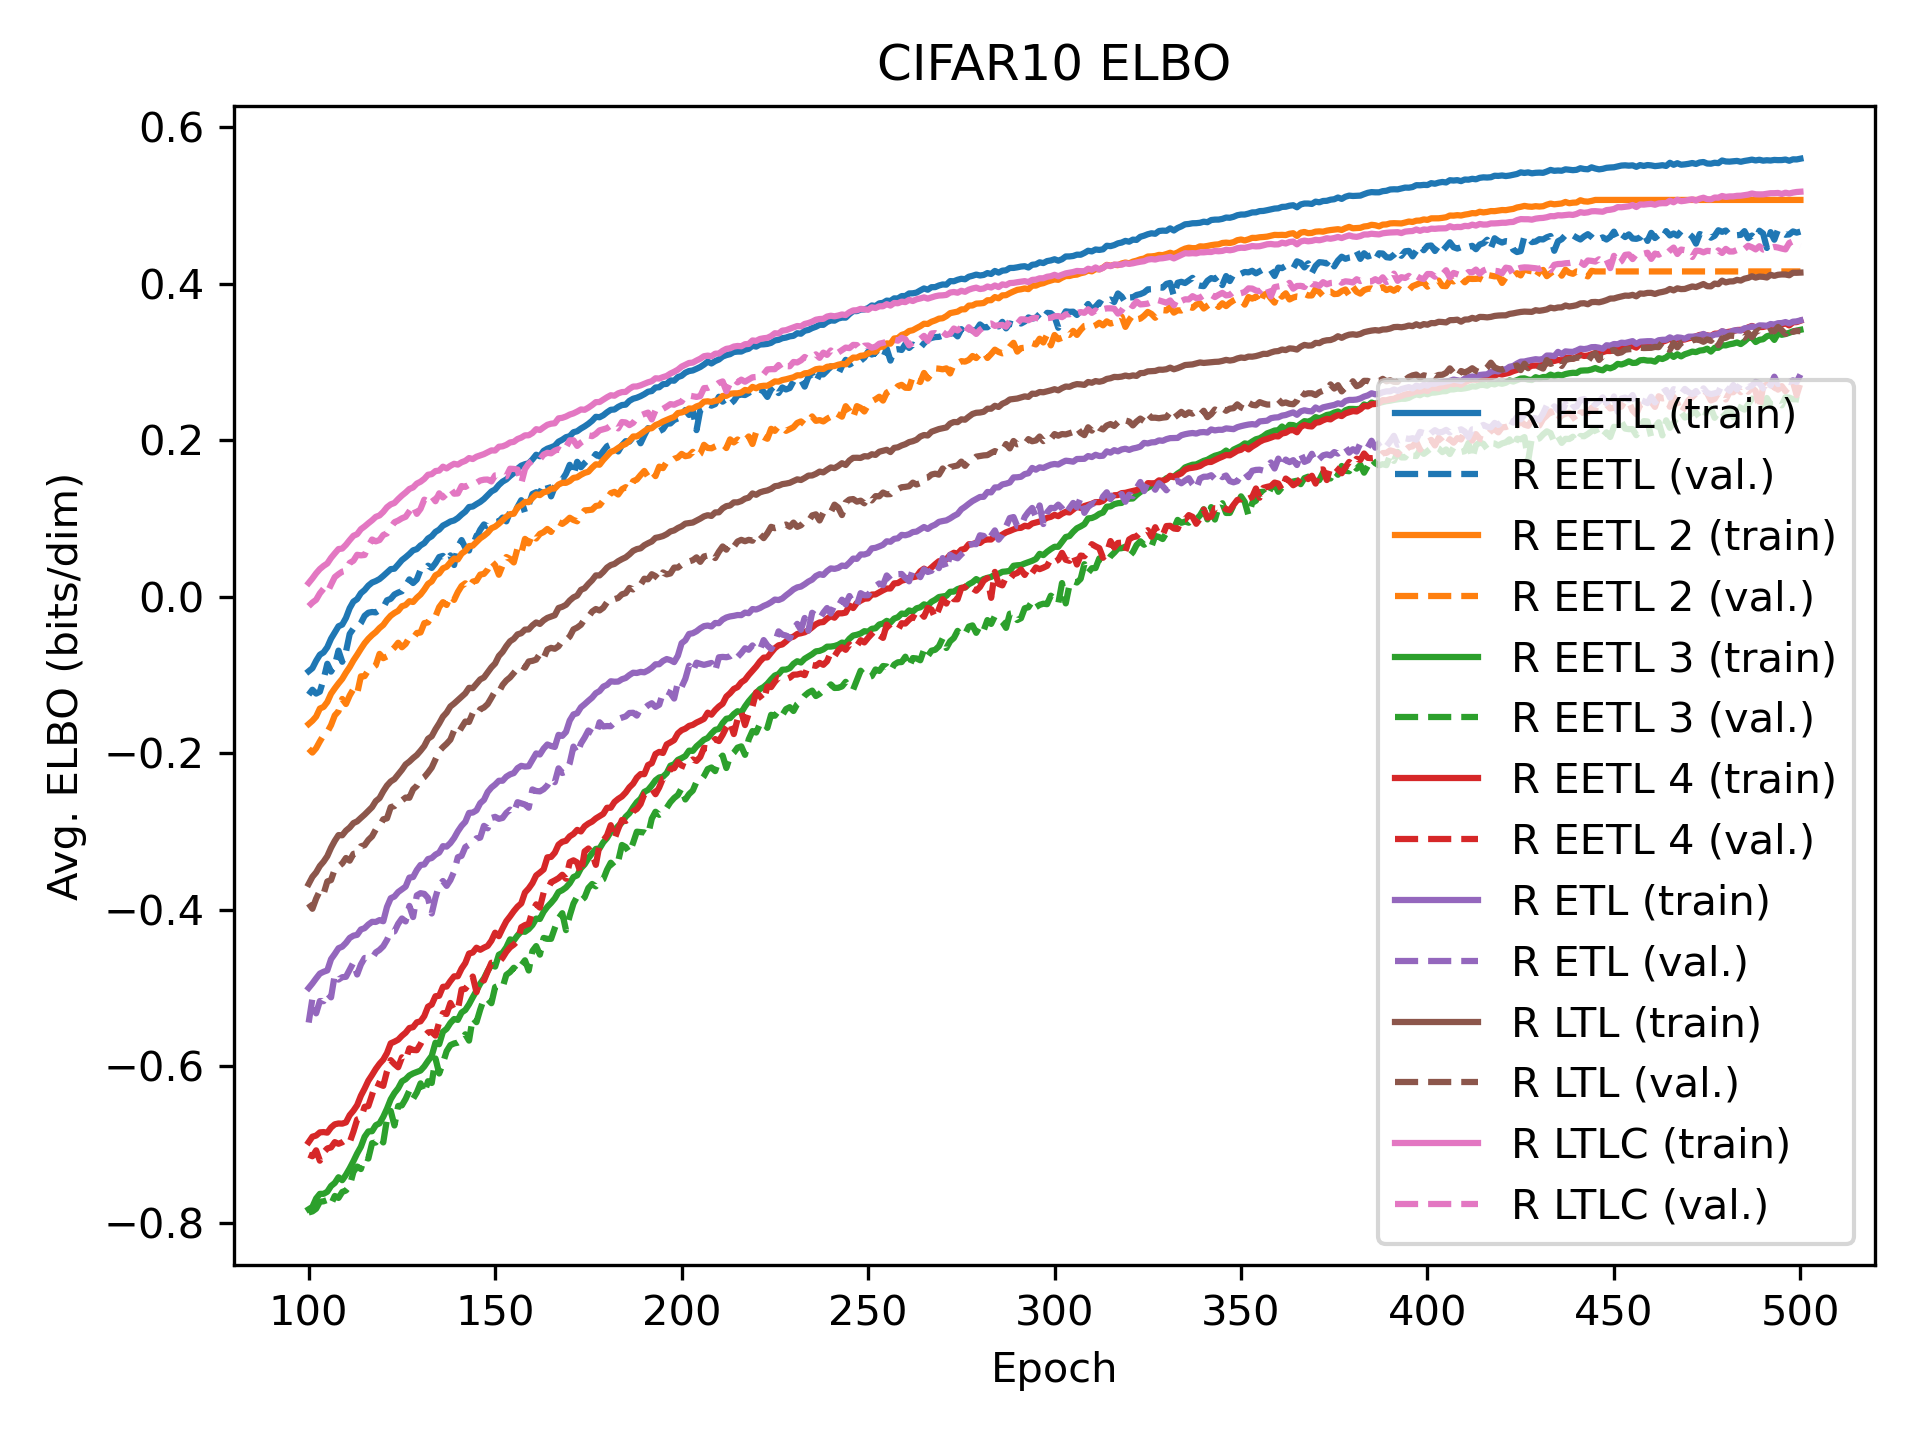
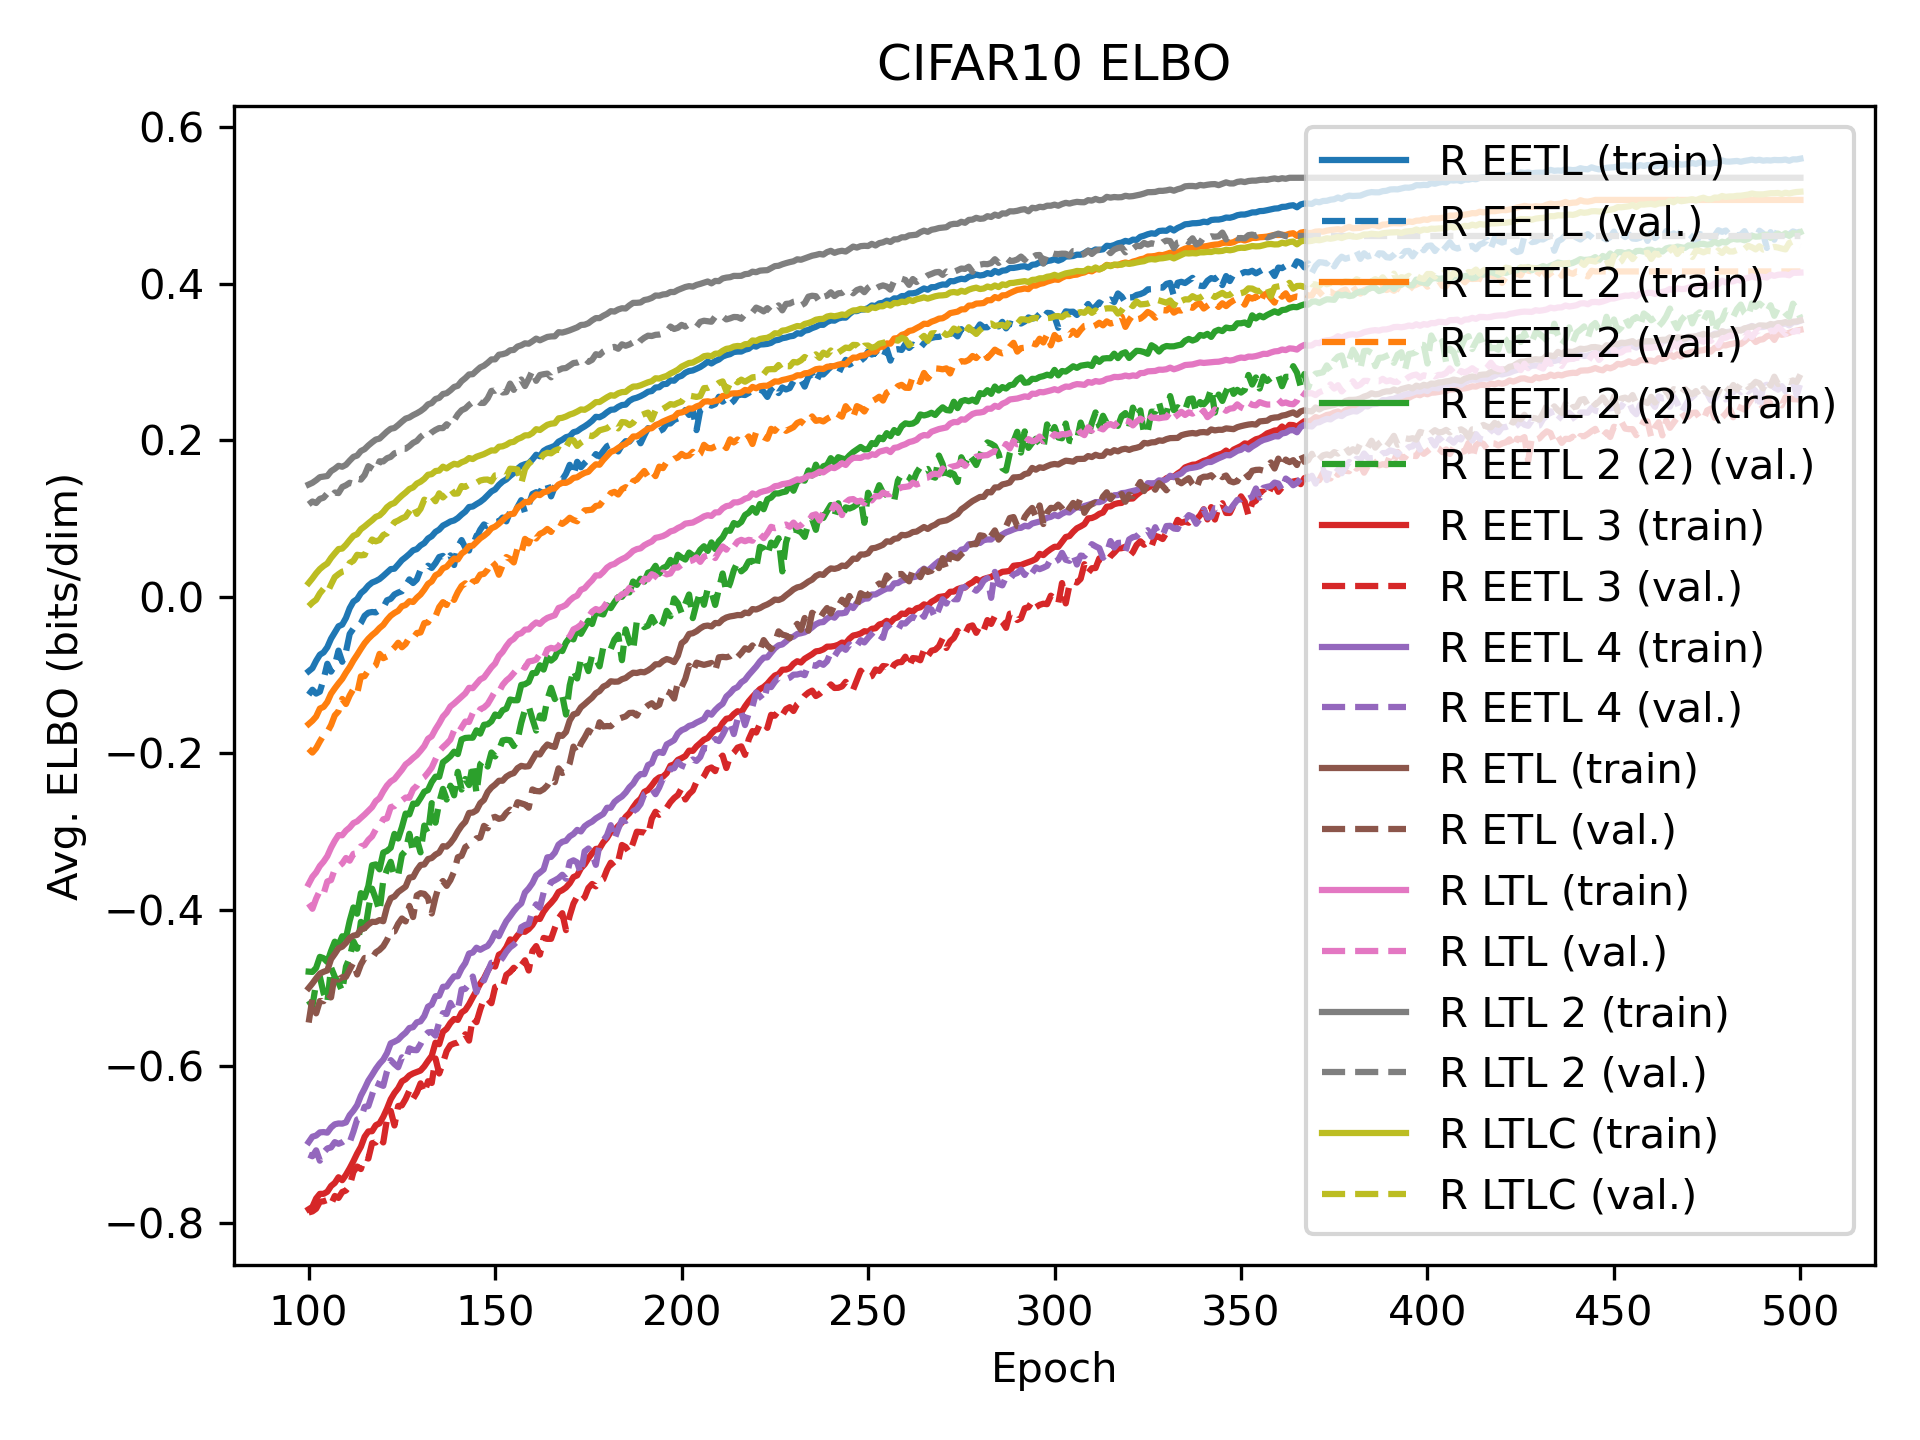
Created updated report with new experiments

Changed region(s): [[0.1562, 0.0938, 0.9688, 0.875], [0.1562, 0.375, 0.1875, 0.4062]]

diff --git a/Experiments/RNN_4/Report.py b/Experiments/RNN_4/Report.py
@@ -1,6 +1,6 @@
-from Architectures.Basic import Canvas, Encoder, EncoderEncoderToEncoder, EncoderToLatents, EncoderEncoderToLatents,\
-    EncoderEncoderToLatents2, EncoderEncoderToLatents3, EncoderEncoderToLatents4, LatentsToLatents, \
-    LatentsToLatentsComplicated, LatentsToDecoder, Decoder
+from Architectures.Basic import Canvas, Encoder, EncoderEncoderToEncoder, EncoderToLatents, EncoderToLatents2,\
+    EncoderEncoderToLatents, EncoderEncoderToLatents2, EncoderEncoderToLatents3, EncoderEncoderToLatents4,\
+    LatentsToLatents, LatentsToLatents2, LatentsToLatentsComplicated, LatentsToDecoder, Decoder
 from Datasets import CIFAR10
 from Methods.RNN import RNN
 from Experiments import Experiments
@@ -75,6 +75,32 @@ CIFAR10_64_4_R_EETL2 = RNN(
     hidden_size=HIDDEN_SIZE,
     clip=CLIP)
 
+ARCHITECTURE_64_4_R_EETL2_2 = {
+    "Canvas": Canvas,
+    "Encoder": Encoder,
+    "EncoderEncoderToLatents": EncoderEncoderToLatents2,
+    "LatentsToDecoder": LatentsToDecoder,
+    "Decoder": Decoder
+}
+
+CIFAR10_64_4_R_EETL2_2 = RNN(
+    architecture=ARCHITECTURE_64_4_R_EETL2_2,
+    num_latents=NUM_LATENTS,
+    num_latents_group=NUM_LATENTS_GROUP,
+    reconstruction=True,
+    encoders=True,
+    to_latents="EncoderEncoder",
+    encoder_to_latents=True,
+    backprop=True,
+    resample=True,
+    type=TYPE,
+    size=SIZE,
+    channels=CHANNELS,
+    log_prob_fn=LOG_PROB_FN,
+    std=STD,
+    hidden_size=HIDDEN_SIZE,
+    clip=CLIP)
+
 ARCHITECTURE_64_4_R_EETL3 = {
     "Canvas": Canvas,
     "Encoder": Encoder,
@@ -101,7 +127,7 @@ CIFAR10_64_4_R_EETL3 = RNN(
     hidden_size=HIDDEN_SIZE,
     clip=CLIP)
 
-ARCHITECTURE_64_4_R_EETL4 = {
+ARCHITECTURE_CIFAR10_64_4_R_EETL4 = {
     "Canvas": Canvas,
     "Encoder": Encoder,
     "EncoderEncoderToLatents": EncoderEncoderToLatents4,
@@ -110,7 +136,7 @@ ARCHITECTURE_64_4_R_EETL4 = {
 }
 
 CIFAR10_64_4_R_EETL4 = RNN(
-    architecture=ARCHITECTURE_64_4_R_EETL4,
+    architecture=ARCHITECTURE_CIFAR10_64_4_R_EETL4,
     num_latents=NUM_LATENTS,
     num_latents_group=NUM_LATENTS_GROUP,
     reconstruction=True,
@@ -181,6 +207,33 @@ CIFAR10_64_4_R_LTL = RNN(
     hidden_size=HIDDEN_SIZE,
     clip=CLIP)
 
+ARCHITECTURE_CIFAR10_64_4_R_LTL_2 = {
+    "Canvas": Canvas,
+    "Encoder": Encoder,
+    "EncoderToLatents": EncoderToLatents2,
+    "LatentsToLatents": LatentsToLatents2,
+    "LatentsToDecoder": LatentsToDecoder,
+    "Decoder": Decoder
+}
+
+CIFAR10_64_4_R_LTL_2 = RNN(
+    architecture=ARCHITECTURE_CIFAR10_64_4_R_LTL_2,
+    num_latents=NUM_LATENTS,
+    num_latents_group=NUM_LATENTS_GROUP,
+    reconstruction=True,
+    encoders=False,
+    to_latents="Latents2",
+    encoder_to_latents=True,
+    backprop=True,
+    resample=True,
+    type=TYPE,
+    size=SIZE,
+    channels=CHANNELS,
+    log_prob_fn=LOG_PROB_FN,
+    std=STD,
+    hidden_size=HIDDEN_SIZE,
+    clip=CLIP)
+
 ARCHITECTURE_CIFAR10_64_4_R_LTLC = {
     "Canvas": Canvas,
     "Encoder": Encoder,
@@ -224,14 +277,24 @@ experiments = [
         "trials": 1,
         "method": CIFAR10_64_4_R_EETL2,
         "graphs": ["ELBO", "ELBO_Z1", "R", "R_Z1", "KLD_Z_10_16", "KLD_Z_1", "KLD_Validation"]
-    },{
+    },
+    {
+        "name": "Reconstruction Encoder Encoder To Latents 2 (2)",
+        "abbreviation": "R EETL 2 (2)",
+        "identifier": "CIFAR10_64_4_R_EETL2_2",
+        "trials": 1,
+        "method": CIFAR10_64_4_R_EETL2_2,
+        "graphs": ["ELBO", "ELBO_Z1", "R", "R_Z1", "KLD_Z_10_16", "KLD_Z_1", "KLD_Validation"]
+    },
+    {
         "name": "Reconstruction Encoder Encoder To Latents 3",
         "abbreviation": "R EETL 3",
         "identifier": "CIFAR10_64_4_R_EETL3",
         "trials": 1,
         "method": CIFAR10_64_4_R_EETL3,
         "graphs": ["ELBO", "ELBO_Z1", "R", "R_Z1", "KLD_Z_10_16", "KLD_Z_1", "KLD_Validation"]
-    },{
+    },
+    {
         "name": "Reconstruction Encoder Encoder To Latents 4",
         "abbreviation": "R EETL 4",
         "identifier": "CIFAR10_64_4_R_EETL4",
@@ -253,6 +316,14 @@ experiments = [
         "identifier": "CIFAR10_64_4_R_LTL",
         "trials": 1,
         "method": CIFAR10_64_4_R_LTL,
+        "graphs": ["ELBO", "ELBO_Z1", "R", "R_Z1", "KLD_Z_10_16", "KLD_Z_1", "KLD_Validation"]
+    },
+    {
+        "name": "Reconstruction Latents To Latents 2",
+        "abbreviation": "R LTL 2",
+        "identifier": "CIFAR10_64_4_R_LTL_2",
+        "trials": 1,
+        "method": CIFAR10_64_4_R_LTL_2,
         "graphs": ["ELBO", "ELBO_Z1", "R", "R_Z1", "KLD_Z_10_16", "KLD_Z_1", "KLD_Validation"]
     },
     {
